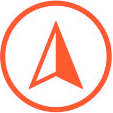
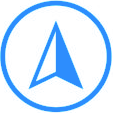
blue
now blue

Changed region(s): [[0.0, 0.0, 1.0, 1.0], [0.2389, 0.1858, 0.7434, 0.7965]]

diff --git a/assets/css/templatemo-villa-agency.css b/assets/css/templatemo-villa-agency.css
@@ -171,7 +171,7 @@ body {
 }
 
 .icon-button a i {
-  background-color: #f35525;
+  background-color: #2585f3;
   height: 50px;
   width: 50px;
   text-align: center;
@@ -183,7 +183,7 @@ body {
 }
 
 .icon-button a:hover {
-  color: #f35525;
+  color: #2585f3;
 }
 
 .icon-button a:hover i {
@@ -204,7 +204,7 @@ body {
 }
 
 .main-button a:hover {
-  background-color: #f35525;
+  background-color: #2585f3;
   color: #fff;
 }
 
@@ -281,7 +281,7 @@ Pre-loader Style
   height: 16px;
   top: 12px;
   left: 15px;
-  background: #f35525;
+  background: #2585f3;
   border-radius: 50%;
   -webkit-transform: translateX(0);
   transform: translateX(0);
@@ -304,7 +304,7 @@ Pre-loader Style
   width: 16px;
   height: 16px;
   margin-left: 16px;
-  background: #f35525;
+  background: #2585f3;
   border-radius: 50%;
 }
 
@@ -348,7 +348,7 @@ Header Style
 }
 
 .sub-header ul.social-links li a:hover {
-  background-color: #f35525;
+  background-color: #2585f3;
 }
 
 .sub-header ul.info li {
@@ -367,7 +367,7 @@ Header Style
 
 .sub-header ul.info li i {
   font-size: 20px;
-  color: #f35525;
+  color: #2585f3;
   margin-right: 8px;
 }
 
@@ -465,16 +465,16 @@ Header Style
 
 
 .header-area .main-nav .nav li:hover a {
-  color: #f35525;
+  color: #2585f3;
 }
 
 .header-area .main-nav .nav li a.active {
-  color: #f35525;
+  color: #2585f3;
 }
 
 
 .background-header .main-nav .nav li a.active {
-  color: #f35525;
+  color: #2585f3;
 }
 
 .header-area .main-nav .menu-trigger {
@@ -740,7 +740,7 @@ Banner Style
 
 .main-banner .item span.category em {
   font-style: normal;
-  color: #f35525;
+  color: #2585f3;
 }
 
 .main-banner .item h2 {
@@ -812,7 +812,7 @@ Featured Style
   width: 110px;
   height: 110px;
   line-height: 110px;
-  background-color: #f35525;
+  background-color: #2585f3;
   border-radius: 50%;
   text-align: center;
   position: absolute;
@@ -852,7 +852,7 @@ Featured Style
 }
 
 .featured .accordion-button:not(.collapsed) {
-  color: #f35525;
+  color: #2585f3;
   background-color: #fafafa;
   outline: none;
 }
@@ -949,7 +949,7 @@ Video Style
   display: inline-block;
   text-align: center;
   line-height: 52px;
-  color: #f35525;
+  color: #2585f3;
   outline: 15px solid rgba(254, 85, 37, 0.5);
   font-size: 18px;
 }
@@ -966,7 +966,7 @@ Fun Facts Style
 }
 
 .fun-facts .counter {
-  background-color: #ffeee9;
+  background-color: #e9ecff;
   position: relative;
   border-radius: 10px;
   width: 290px;
@@ -991,14 +991,14 @@ Fun Facts Style
 .fun-facts .counter h2 {
   margin-right: 25px;
   font-size: 40px;
-  color: #f35525;
+  color: #2585f3;
 }
 
 .fun-facts .counter:after {
   position: absolute;
   width: 50px;
   height: 50px;
-  background-color: #f35525;
+  background-color: #2585f3;
   border-radius: 50%;
   content: '';
   right: -25px;
@@ -1034,7 +1034,7 @@ Best Deal Style
 }
 
 .best-deal .tabs-content .nav-tabs .nav-link.active {
-  background-color: #f35525 !important;
+  background-color: #2585f3 !important;
   color: #fff;
 }
 
@@ -1156,7 +1156,7 @@ Properties Style
 
 .properties .item h6 {
   font-size: 20px;
-  color: #f35525;
+  color: #2585f3;
   margin-top: 6px;
   display: inline-block;
   float: right;
@@ -1281,7 +1281,7 @@ Contact Style
 }
 
 .contact-content #contact-form button:hover {
-  background-color: #f35525;
+  background-color: #2585f3;
 }
 
 
@@ -1394,7 +1394,7 @@ Properties Style
 }
 
 .properties ul.properties-filter li a.is_active {
-  background-color: #f35525;
+  background-color: #2585f3;
   color: #fff;
 }
 
@@ -1403,7 +1403,7 @@ Properties Style
 }
 
 .properties ul.properties-filter li a:hover {
-  color: #f35525;
+  color: #2585f3;
 }
 
 .properties ul.pagination {
@@ -1434,7 +1434,7 @@ Properties Style
 
 .properties ul.pagination li a:hover,
 .properties ul.pagination li a.is_active {
-  background-color: #f35525;
+  background-color: #2585f3;
   color: #fff;
 }
 
@@ -1491,7 +1491,7 @@ Single Page Style
 }
 
 .single-property .accordion-button:not(.collapsed) {
-  color: #f35525;
+  color: #2585f3;
   background-color: #fafafa;
   outline: none;
 }
@@ -1645,7 +1645,7 @@ Contact Page Style
 }
 
 .contact-page #contact-form button:hover {
-  background-color: #f35525;
+  background-color: #2585f3;
 }
 
 

diff --git a/ubicaciones.html b/ubicaciones.html
@@ -84,7 +84,7 @@
       <div class="row properties-box">
         <div class="col-lg-4 col-md-6 align-self-center mb-30 properties-items col-md-6 adv">
           <div class="item">
-            <a><img src="assets/images/property-01.jpg" alt=""></a>
+            <a href="https://www.google.com/maps/place/Castillo+de+San+Lorenzo+Real+de+Chagres/@9.3227778,-80.0016667,17z/data=!3m1!4b1!4m6!3m5!1s0x8fab73fcfae49755:0x9081d9bdba5ed326!8m2!3d9.3227778!4d-80.0016667!16zL20vMGJkMWN0?entry=ttu&g_ep=EgoyMDI1MDUyMS4wIKXMDSoASAFQAw%3D%3D"><img src="assets/images/property-01.jpg" alt=""></a>
             <h4><a>Fuerte de San Lorenzo</a></h4>
             <ul>
               <li>Río Chagres, Portobelo<br></li>
@@ -93,7 +93,7 @@
         </div>
         <div class="col-lg-4 col-md-6 align-self-center mb-30 properties-items col-md-6 adv rac">
           <div class="item">
-            <a><img src="assets/images/property-03.jpg" alt=""></a>
+            <a href="https://www.google.com/maps/place/real+aduana+de+portobelo/data=!4m2!3m1!1s0x8fab3ca6828a1e63:0x449ccf3e4c1fa938?sa=X&ved=1t:155783&ictx=111"><img src="assets/images/property-03.jpg" alt=""></a>
             <h4><a>Real Aduana de Portobelo</a></h4>
             <ul>
               <li>Museo Histórico Afroantillano<br></li>
@@ -102,7 +102,7 @@
         </div>
 		<div class="col-lg-4 col-md-6 align-self-center mb-30 properties-items col-md-6 rac adv">
           <div class="item">
-            <a><img src="assets/images/property-02.jpg" alt=""></a>
+            <a href="https://detallesdepanama.com/2022/09/10/the-maison-blanche/"><img src="assets/images/property-02.jpg" alt=""></a>
             <h4><a>Antiguo Edificio de la Gobernación</a></h4>
 			<ul>
 			  <li>Primer edificio público monumental</li>
@@ -125,7 +125,7 @@
       <div class="row properties-box">
 		<div class="col-lg-4 col-md-6 align-self-center mb-30 properties-items col-md-6 str">
           <div class="item">
-            <a><img src="assets/images/agu.png" alt=""></a>
+            <a href="https://www.google.com/maps/place/esclusas+de+agua+clara/data=!4m2!3m1!1s0x8fab6f73532fe085:0x4883d23498f0399?sa=X&ved=1t:155783&ictx=111"><img src="assets/images/agu.png" alt=""></a>
             <h4><a>Esclusas de Agua Clara</a></h4>
 			<ul>
 			  <li>Esclusas del Canal de Panamá<br></li>
@@ -134,7 +134,7 @@
         </div>
         <div class="col-lg-4 col-md-6 align-self-center mb-30 properties-items col-md-6 str">
           <div class="item">
-            <a><img src="assets/images/zon.png" alt=""></a>
+            <a href="https://www.google.com/maps/place/Zona+Libre+de+Col%C3%B3n,+4+Altos/@9.3495769,-79.8968039,16z/data=!4m6!3m5!1s0x8fab6d045beed1eb:0x65ffae522a773f2e!8m2!3d9.3494933!4d-79.892595!16s%2Fg%2F11fkq8vq_5?entry=ttu&g_ep=EgoyMDI1MDUyMS4wIKXMDSoASAFQAw%3D%3D"><img src="assets/images/zon.png" alt=""></a>
             <h4><a>Zona Libre de Colón</a></h4>
 			<ul>
 			  <li>Centro de comercio libre de impuestos</li>
@@ -143,7 +143,7 @@
         </div>
         <div class="col-lg-4 col-md-6 align-self-center mb-30 properties-items col-md-6 rac str">
           <div class="item">
-            <a><img src="assets/images/gra.png" href="https://www.google.com/maps/place/Isla+Grande/@9.634277,-79.5631921,16z/data=!3m1!4b1!4m6!3m5!1s0x8fab25f454d79879:0xb31dc14c97cd83a5!8m2!3d9.6326757!4d-79.5645585!16zL20vMGJzX3Ry?entry=ttu&g_ep=EgoyMDI1MDUyMS4wIKXMDSoASAFQAw%3D%3D" alt=""></a>
+            <a href="https://www.google.com/maps/place/Isla+Grande/@9.634277,-79.5631921,16z/data=!3m1!4b1!4m6!3m5!1s0x8fab25f454d79879:0xb31dc14c97cd83a5!8m2!3d9.6326757!4d-79.5645585!16zL20vMGJzX3Ry?entry=ttu&g_ep=EgoyMDI1MDUyMS4wIKXMDSoASAFQAw%3D%3D"><img src="assets/images/gra.png" alt=""></a>
             <h4><a>Isla Grande</a></h4>
             <ul>
               <li>Playas de arena blanca y aguas cristalinas</li>
